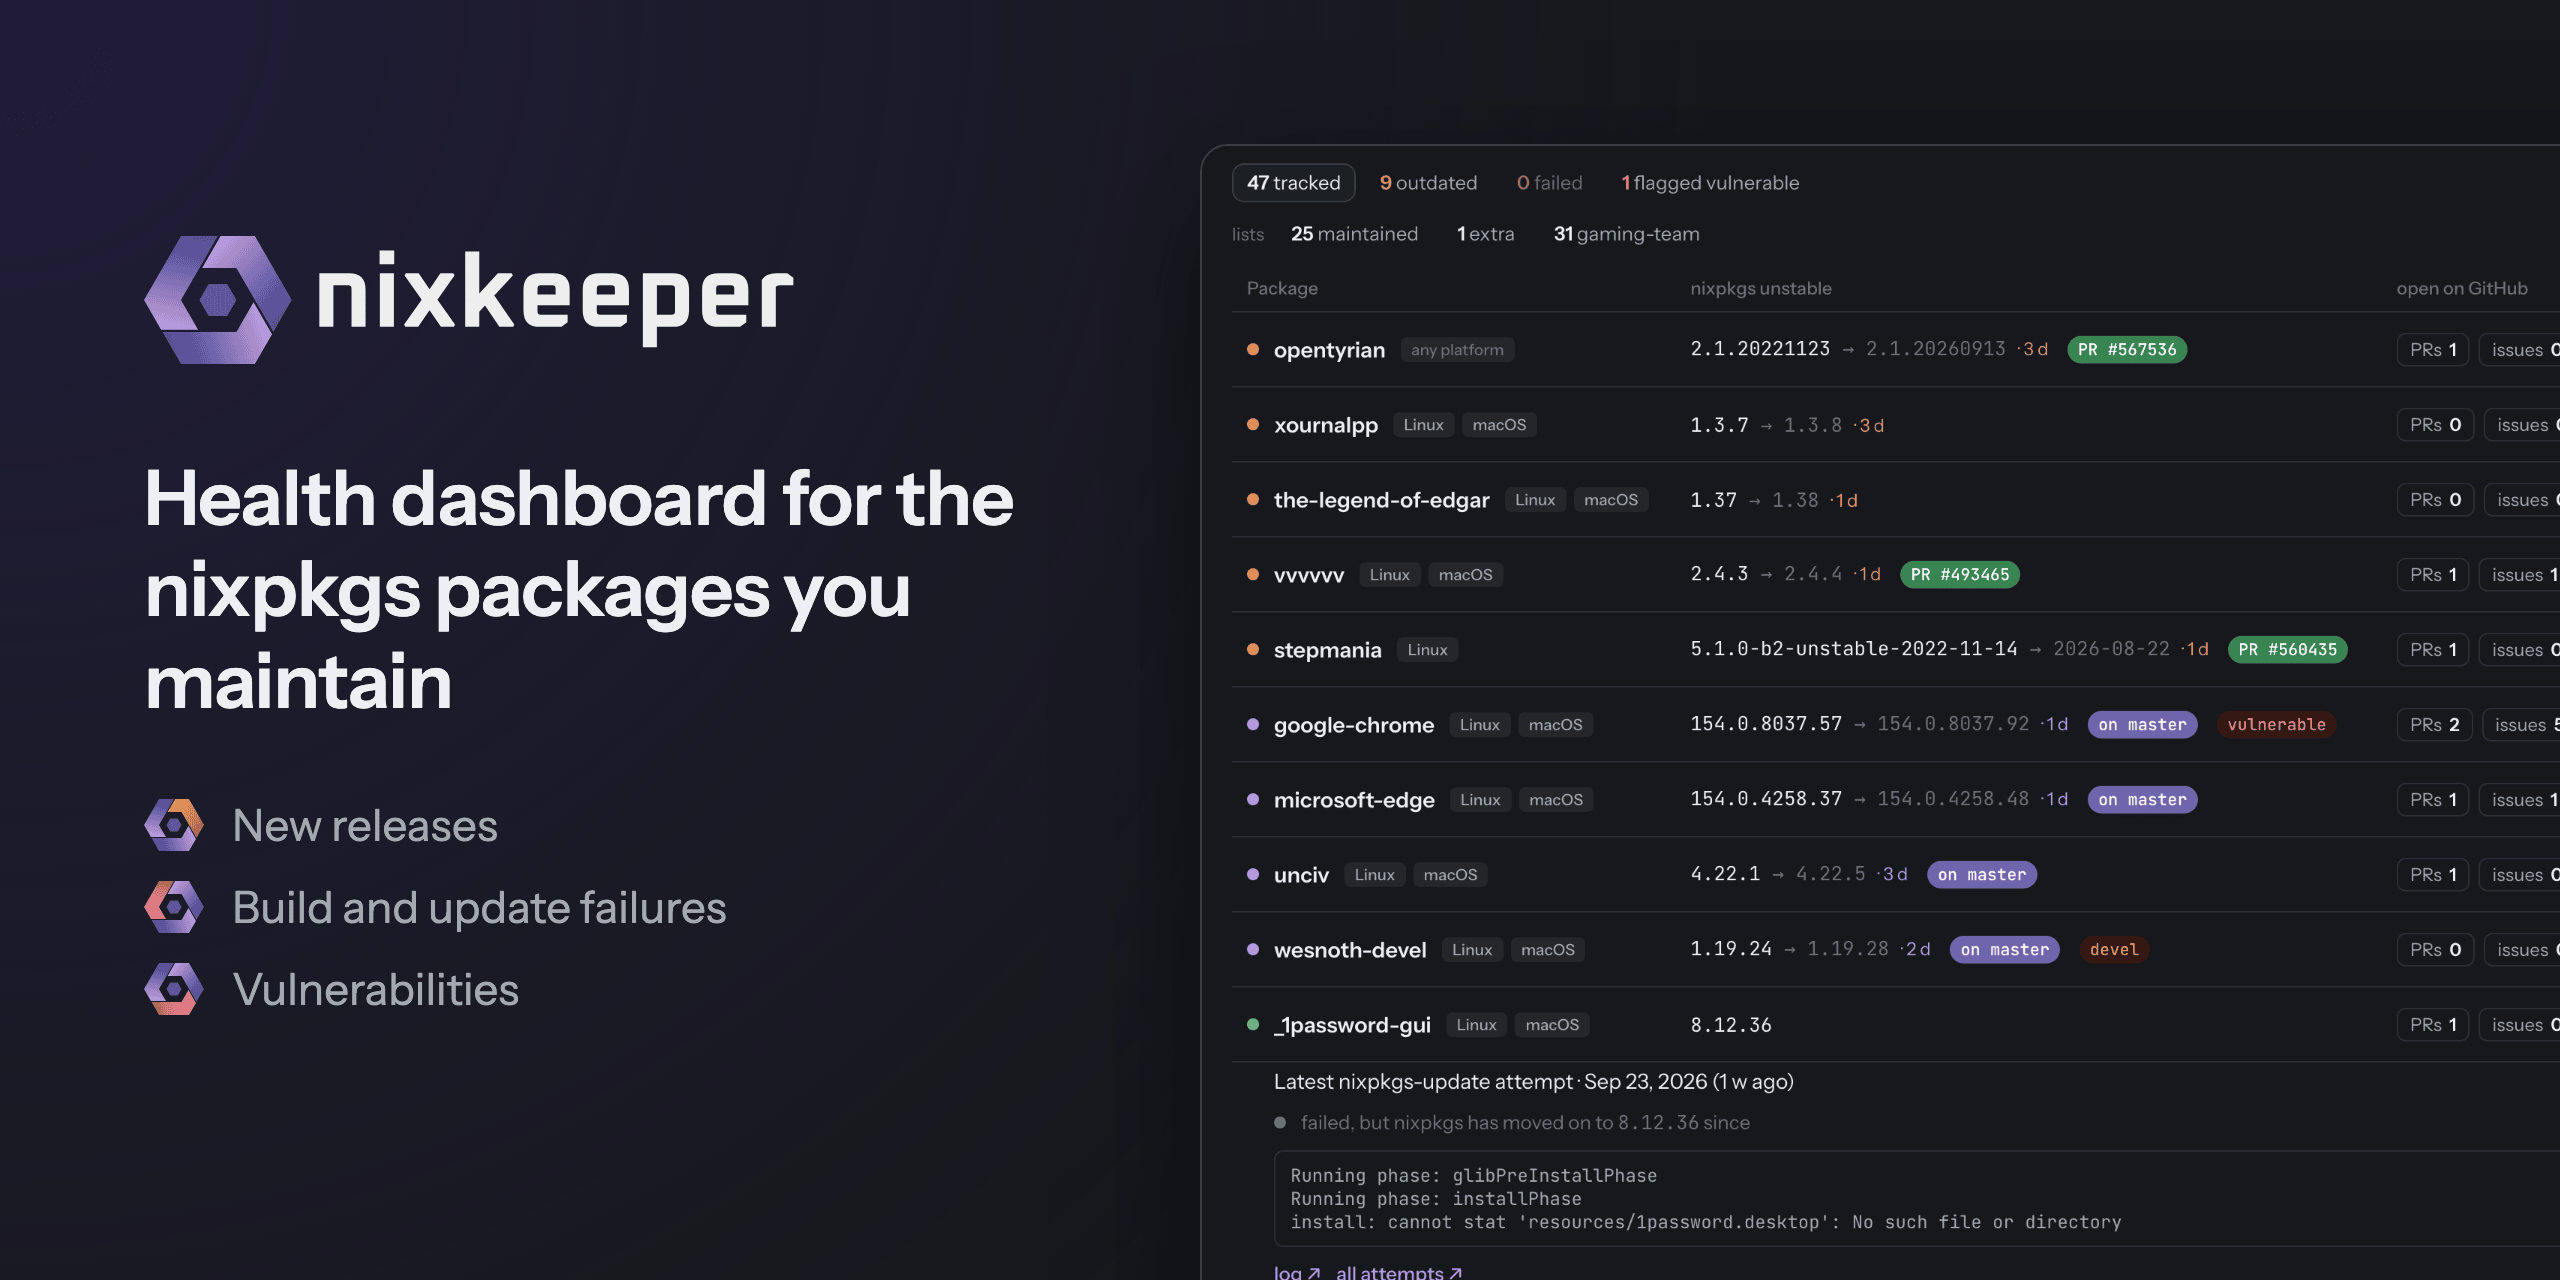
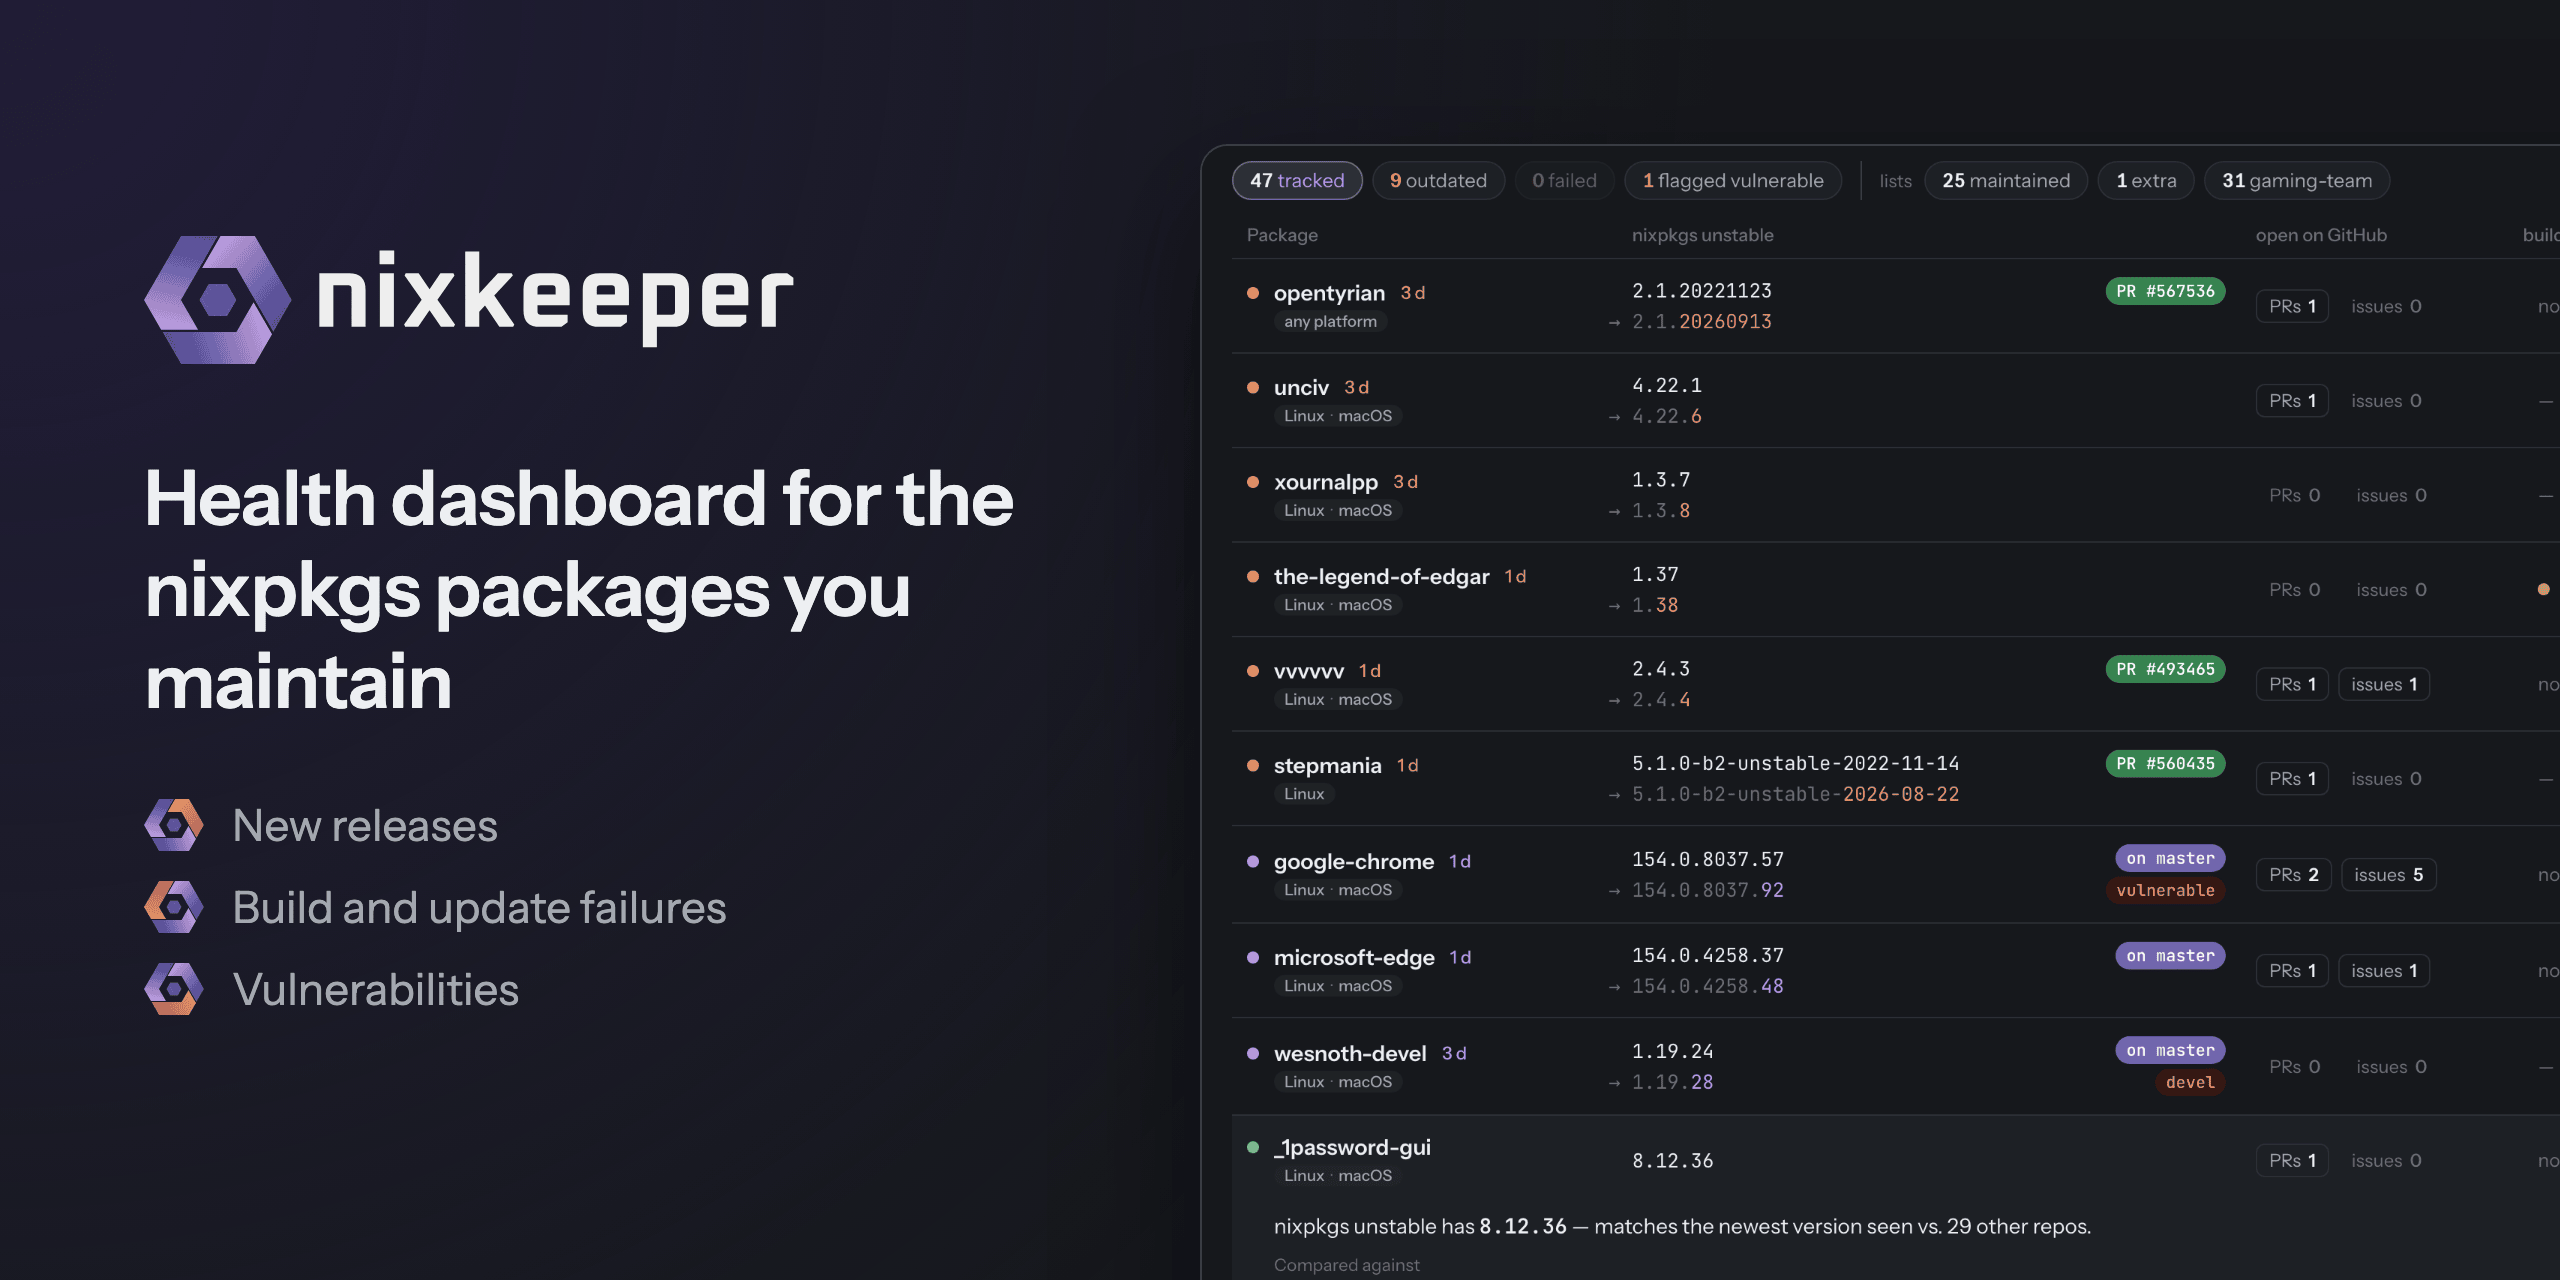
docs: screenshots in both palettes, release card (#49)

diff --git a/page/index.html b/page/index.html
@@ -5,6 +5,16 @@
 <meta name="viewport" content="width=device-width, initial-scale=1">
 <title>nixkeeper — your nixpkgs packages, at a glance</title>
 <meta name="description" content="Health dashboard for the nixpkgs packages you maintain: new releases, build and update failures, and vulnerabilities, in one place.">
+<!-- Link previews (Discourse, Matrix, Mastodon, ...): nixkeeper's card. A
+     full address, as previews need: the project's, for every copy. -->
+<meta property="og:type" content="website">
+<meta property="og:title" content="nixkeeper — your nixpkgs packages, at a glance">
+<meta property="og:description" content="Health dashboard for the nixpkgs packages you maintain: new releases, build and update failures, and vulnerabilities, in one place.">
+<meta property="og:image" content="https://raw.githubusercontent.com/iedame/nixkeeper/main/assets/screenshots/social-preview.png">
+<meta property="og:image:width" content="2560">
+<meta property="og:image:height" content="1280">
+<meta property="og:image:alt" content="nixkeeper: the logo, what it watches (new releases, build and update failures, vulnerabilities), and the dashboard">
+<meta name="twitter:card" content="summary_large_image">
 <link rel="preconnect" href="https://fonts.googleapis.com">
 <link rel="preconnect" href="https://fonts.gstatic.com" crossorigin>
 <link href="https://fonts.googleapis.com/css2?family=Instrument+Sans:wght@400;500;600;700&family=JetBrains+Mono:wght@400;500;600&display=swap" rel="stylesheet">

diff --git a/CONTRIBUTING.md b/CONTRIBUTING.md
@@ -47,7 +47,8 @@ happen. For what nixkeeper does and how to set up your own, see the
     copy of the favicon is `page/favicon.svg`, since only `page/` is
     published.
   - `screenshots/`: the page, for the README (light and dark, desktop and
-    phone) and the repository's social preview, taken by
+    phone, in the Classic and Catppuccin palettes) and the repository's
+    social preview, taken by
     `scripts/screenshots.sh` (see [Screenshots](#screenshots))
 - `.github/workflows/`:
   - `ci.yml`, **CI: tests and lint**: checks nixkeeper's own code on every
@@ -157,12 +158,14 @@ the published data, taken in a headless browser:
 nix run .#screenshots -- --browser google-chrome
 ```
 
-That writes all five, compressed: `desktop-{dark,light}.png` (1280px wide,
-at 2x, with a panel open), `mobile-{dark,light}.png` (390px, at 2x) and
-`social-preview.png` (a 1280×640 card at 2x: the lockup, what nixkeeper
-watches, and the dark desktop shot; its layout is
-`scripts/social-preview.html`). The social preview is then uploaded by hand:
-Settings → General → Social preview.
+That writes ten, compressed, five in each of the page's palettes:
+`desktop-{dark,light}.png` (1280px wide, at 2x, with a panel open),
+`mobile-{dark,light}.png` (390px, at 2x) and `social-preview.png` (a
+1280×640 card at 2x: the lockup, what nixkeeper watches, and the dark
+desktop shot; its layout is `scripts/social-preview.html`). Those are
+Classic; Catppuccin's (Latte when light, Mocha when dark) end in
+`-catppuccin`, e.g. `desktop-dark-catppuccin.png`. The social preview is
+then uploaded by hand: Settings → General → Social preview.
 
 | Option | What it sets |
 |---|---|

diff --git a/README.md b/README.md
@@ -19,6 +19,24 @@ and update failures, and vulnerabilities, in one place.
   </picture>
 </p>
 
+<details>
+<summary>The same in Catppuccin (Latte when light, Mocha when dark)</summary>
+<br>
+<p align="center">
+  <picture>
+    <source media="(prefers-color-scheme: dark)" srcset="assets/screenshots/desktop-dark-catppuccin.png">
+    <img src="assets/screenshots/desktop-light-catppuccin.png" width="70%" alt="The nixkeeper dashboard on a desktop in the Catppuccin palette">
+  </picture>
+  <picture>
+    <source media="(prefers-color-scheme: dark)" srcset="assets/screenshots/mobile-dark-catppuccin.png">
+    <img src="assets/screenshots/mobile-light-catppuccin.png" width="22%" alt="The same dashboard on a phone, in the Catppuccin palette">
+  </picture>
+</p>
+
+Pick it in the page's Theme menu, or make it your page's default with
+`page.theme = "catppuccin";` in your package lists.
+</details>
+
 For each package it tracks, nixkeeper shows on one static page (`page/`):
 
 - **New releases**: whether nixpkgs unstable is behind, per

diff --git a/CHANGELOG.md b/CHANGELOG.md
@@ -11,6 +11,11 @@ The version lives in `pyproject.toml`; `flake.nix` reads it from there.
 
 ### Added
 
+- Link previews for the page: shared on Discourse, Matrix, Mastodon and
+  the like, a link to a nixkeeper page shows nixkeeper's card (the social
+  preview). Releases' notes start with the card too.
+- Screenshots in both palettes (`assets/screenshots/*-catppuccin.png`); the
+  README shows the Catppuccin ones in a collapsible section.
 - A Theme menu on the page: Classic or [Catppuccin](https://catppuccin.com)
   colours (Latte when light, Mocha when dark), and light, dark or Auto (the
   system's setting). The choice is kept in the visitor's browser and applied
